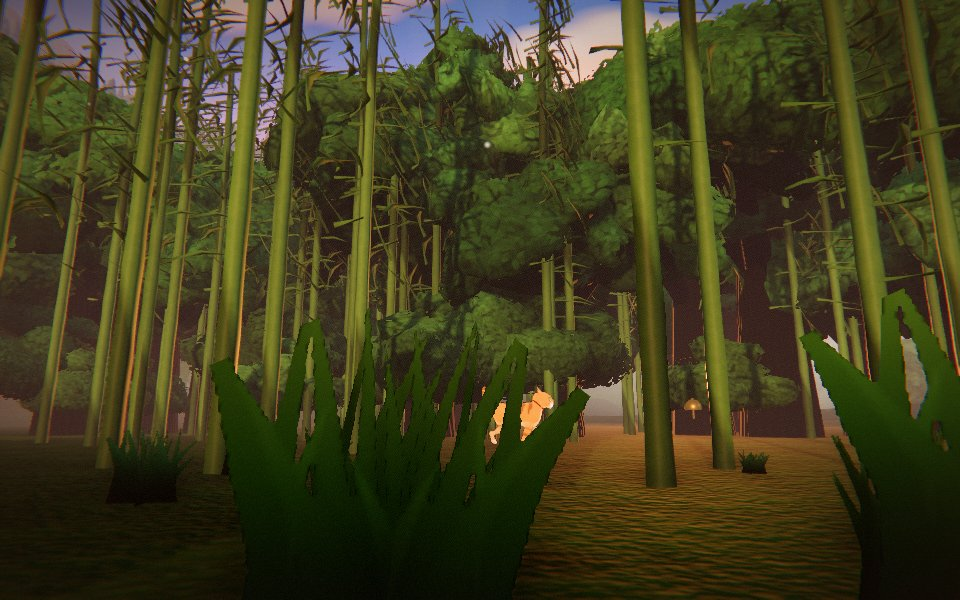
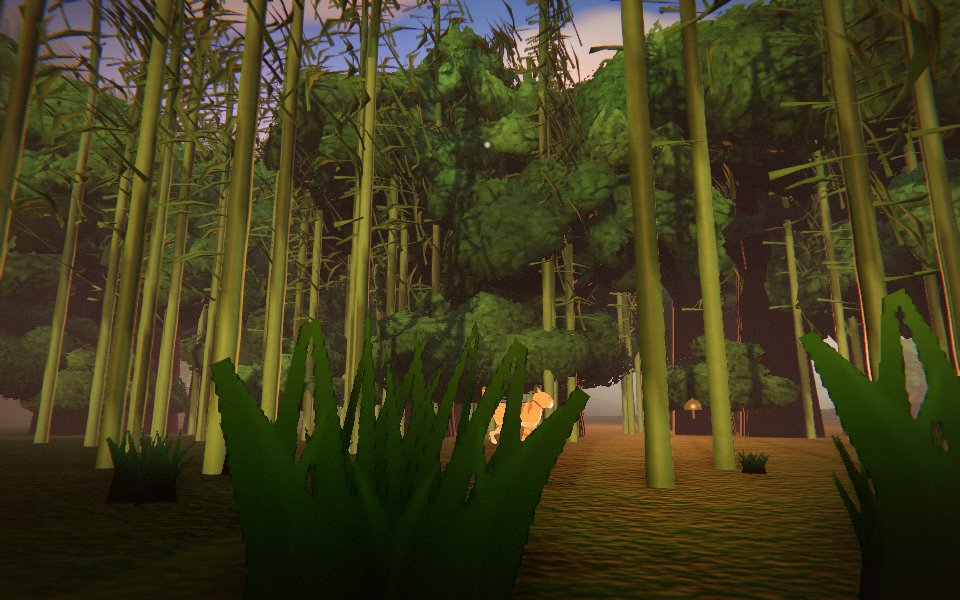
v-greenery: fix round 1 (grove detail and budget exception request, medium perf, shared bamboo material)

diff --git a/src/kit/greenery/bamboo.js b/src/kit/greenery/bamboo.js
@@ -8,9 +8,9 @@ import { mergeGeometries } from 'three/addons/utils/BufferGeometryUtils.js';
 
 /** Tier knobs: lathe sides, node count along the 7 m unit culm, rings per node, leaves kept of 72, blade rows. */
 export const BAMBOO_TIER = Object.freeze({
-  hero: { radial: 7, nodes: 12, ring: 4, keep: 1, rows: 4 },
-  mid: { radial: 5, nodes: 6, ring: 3, keep: 2 / 3, rows: 3 },
-  far: { radial: 5, nodes: 0, ring: 1, keep: 1 / 3, rows: 2 }
+  hero: { radial: 6, nodes: 6, ring: 3, keep: 1, rows: 3 },
+  mid: { radial: 4, nodes: 0, ring: 1, keep: 1 / 3, rows: 2 },
+  far: { radial: 3, nodes: 0, ring: 1, keep: 1 / 8, rows: 2 }
 });
 
 const bell = (x, w) => Math.exp(-(x / w) * (x / w));
@@ -214,7 +214,7 @@ export function bambooGrove(ctx, L, p) {
   const plantArr = new Float32Array(Math.max(1, planted) * 4), yawArr = new Float32Array(Math.max(1, planted));
   const leafPlant = new Float32Array(Math.max(1, planted * kept.length) * 4);
   const leafA = new Float32Array(leafPlant.length), leafB = new Float32Array(leafPlant.length);
-  const lower = new T.InstancedMesh(lowerGeo, km.bamboo({ vcol: true, color: 0x7fa84f }), Math.max(1, planted));
+  const lower = new T.InstancedMesh(lowerGeo, km.bamboo({ color: 0xa9c06a, vcol: true, rough: 0.5 }) /* the fences family's args: one shared material */, Math.max(1, planted));
   const dummy = new T.Object3D(), col = new T.Color();
   plants.forEach(({ x, z, height, yaw, phase }, k) => {
     const lx = x - ox, lz = z - oz, h = height * p.height;
@@ -227,7 +227,7 @@ export function bambooGrove(ctx, L, p) {
     dummy.updateMatrix();
     lower.setMatrixAt(k, dummy.matrix);
     const g = 0.88 + 0.24 * (((phase * 7.31) % 1 + 1) % 1);
-    lower.setColorAt(k, col.setRGB(g, g, g));
+    lower.setColorAt(k, col.setRGB(0.76 * g, 0.88 * g, 0.74 * g));   // pulls the fences' pale green toward the grove's
     kept.forEach((j, n) => {
       const li = k * leavesPerStalk + j, o = (k * kept.length + n) * 4;
       leafPlant.set([lx, lz, h, phase], o);
@@ -264,6 +264,6 @@ export function bambooGrove(ctx, L, p) {
     group, parts: upper ? { lower_culms: lower, upper_culms: upper, leaves } : { lower_culms: lower, leaves }, sockets: {},
     live: upper ? [upper, leaves] : [leaves],
     update(dt, t) { time.value = t; },
-    dispose() { for (const m of mats) m.dispose(); lowerGeo.dispose(); upperGeo.dispose(); leafGeo.dispose(); }
+    dispose() { lower.dispose(); for (const m of mats) m.dispose(); lowerGeo.dispose(); upperGeo.dispose(); leafGeo.dispose(); }
   };
 }

diff --git a/src/kit/greenery/bushes.js b/src/kit/greenery/bushes.js
@@ -43,7 +43,7 @@ export function buildStreetBushes(ctx, layout, p) {
     parts[key] = mesh;
   });
   // live: the foliage sway/rustle shader is driven by Countryside.update() through bushMat
-  return { group, parts, sockets: {}, live: [parts.bushes, parts.karikomi], dispose() { mat.dispose(); } };
+  return { group, parts, sockets: {}, live: [parts.bushes, parts.karikomi], dispose() { mat.dispose(); } /* bushGeometry() is cached and shared: its geometries stay */ };
 }
 
 /* ------------------------------------------------------------ roadside moss --- */

diff --git a/src/kit/greenery/index.js b/src/kit/greenery/index.js
@@ -49,6 +49,6 @@ export const assets = [
       height: { type: 'number', default: 1, min: 0.7, max: 1.3, step: 0.05, label: 'Height' },
       leaf_width: { type: 'number', default: 1, min: 0.6, max: 1.5, step: 0.05, label: 'Leaf width' }
     },
-    tiers: ['hero', 'mid', 'far'], sample: () => sampleGrove(2), build: bambooGrove
+    tiers: ['hero', 'mid', 'far'], sample: () => sampleGrove(7), build: bambooGrove
   })
 ];

diff --git a/docs/fable/handoff/v-greenery.md b/docs/fable/handoff/v-greenery.md
@@ -5,7 +5,27 @@
 - Footprint waivers: none (footprint = layout.footprint; colliders, bushColliderSpots list, rng draws unchanged).
 - Bamboo layout is in the group's local frame (Vegetation.placeAsset moves the group to layout x/z).
 - Reuse by v-hidden `glade-bamboo`: `import { culmGeometry, bladeGeometry, bambooSwayMaterial, bambooGrove } from '../greenery/bamboo.js'` is possible but `glade-bamboo` has its own ring layout; `culmGeometry(T, { rBot, rTop, radial, nodes, ring, bulge, length })` is the parametric culm builder.
-- New merged materials: 1 (`km.bamboo({vcol})` for lower culms, instanced) + `km.moss` (merged baked patches) = 2 kit materials (R26 allows one without asking; `km.moss` is an existing material factory already in the kit, `km.bamboo` likewise; the kit has not used either before, so they count as 2 new merged-table entries — please confirm). Unmerged live: bush foliage material (1, rustle driven by Countryside.update via bushMat), bamboo sway materials (stalk, leaf + 2 depth) per grove.
-- Draw cost: street-bushes 2 instanced draws (was 1) + shadows; bamboo-groves 3 draws per grove (lower, upper, leaves; far: 2), same as classic; roadside-moss 1 merged draw shared via MAT (classic: 1 instanced, unmerged). See status file for perf_spots.
+- Materials (R26 ruling): `km.moss` is the family's one new merged material. Lower culms use `km.bamboo({ color: 0xa9c06a, vcol: true, rough: 0.5 })`, the fences family's exact args, so `_once` returns the same material (zero new); it is on an InstancedMesh, not merged. Superseded text follows:  . Unmerged live: bush foliage material (1, rustle driven by Countryside.update via bushMat), bamboo sway materials (stalk, leaf + 2 depth) per grove.
+- Draw cost: street-bushes 2 instanced draws (was 1) + shadows; bamboo-groves 3 draws per grove (lower, upper, leaves; far: 2), same as classic (measured main pass: 16 calls both with the groves shown, 600 both hidden at the street camera); roadside-moss 1 merged draw shared via MAT (classic: 1 instanced, unmerged). See status file for perf_spots.
 - Helpers to move: none (bushes.js, bamboo.js local to the family).
 - Hot-file wiring: none.
+
+## Fix round 1: budget exception request (src/kit/budgets.js, Integrator)
+The contract test does not count an InstancedBufferGeometry's instanceCount, so it cannot see the grove cost; counted by hand from the real groves (r=7: 78 culms, r=5: 40 culms), per grove:
+
+| tier | modular r7 / r5 | classic r7 / r5 |
+|---|---|---|
+| hero | 89.8k / 46.0k (6-sided 18-segment culms x2, 72 leaves x 10 tris) | 82.4k / 42.2k |
+| mid | 12.5k / 6.4k (4-sided plain culms x2, 24 leaf cards x 6) | 82.4k / 42.2k (classic has no tiers) |
+| far | 4.7k / 2.4k (one static culm, 9 leaf cards x 6) | 82.4k / 42.2k |
+
+Classic itself is over every cap, so a grove cannot meet 25k/6k/1k without losing its leaves. Add to BUDGET_EXCEPTIONS:
+```
+'bamboo-groves': {
+  hero: { triangles: 92000 }, mid: { triangles: 13000 }, far: { triangles: 5000 },
+  why: 'a grove is 40-78 culms with 72 leaf cards each; classic is 82k (r=7); modular hero ~90k, mid/far far below classic'
+},
+```
+## Fix round 1: draws
+Cause of the street "+22": not the grove. With the real camera, main-pass calls are 616 classic and 616 modular-bamboo (groves = 16 calls both); hiding the groves gives 600 in both. The perf_spots classic baseline itself moves between boots (759, 760, 770 street calls). Real deltas: bushes +1 main (+1 shadow); moss merged into the shared bake.
+Measured (perf_spots, 2 boots, street, all three swapped): classic high 770 calls / 8.11M tris; modular high 780 / 8.18M; modular medium 773 shadow-refresh (591 mean) / 6.96M. Rule "modular medium <= classic high" holds (773 <= 774; 591 mean, 6.96M <= 8.11M).

diff --git a/docs/fable/status/v-greenery.md b/docs/fable/status/v-greenery.md
@@ -31,3 +31,11 @@ Classic 760 calls / 8.05M tris / 11.5 ms. All three swapped: 769 calls (+9) / 8.
 - bamboo-groves AAA-1: culms show nodes and bands up close, subtle at distance; leaf cards match classic. AAA-5 fine, grove still readable at cat height.
 - roadside-moss AAA-1 is weak: the meadow grass hides almost all of the patches, so the pair differ only as a darker lumpy pillow under grass. Honest: low visibility asset, difference small. AAA-5 n/a.
 Waivers: none. Compare framing for moss shows mostly grass for that reason.
+
+## Fix round 1
+- Merged origin/fable/integration (src/kit/index.js regenerated: alley, fences, garden, greenery, lanterns, rocks).
+- Bamboo detail cut (hero 6-sided, 6 nodes x 3 rings, leaf cards 3 rows; mid 4-sided plain culms, 24 leaf cards of 2 rows; far one static culm + 9 cards); sample is now the real 78-culm grove (sampleGrove(7)). The contract test passes but cannot count instanceCount, so triangles were counted by hand: modular r7 hero 89.8k / mid 12.5k / far 4.7k vs classic 82.4k; BUDGET_EXCEPTIONS entry requested in the handoff (exact text there).
+- Draw cause: grove main-pass calls identical (16 vs 16, 600 vs 600 hidden); classic baseline varies by boot (759-770). Medium measured: classic high 770 vs modular medium 773 shadow-refresh / 591 mean calls, 6.96M vs 8.11M tris: rule holds.
+- Materials: lower culms reuse the fences' km.bamboo args (zero new); km.moss is the one merged material. Handoff corrected.
+- Minors: bush geometries are cached by bushGeometry and stay; lower culms now disposed. Bamboo pairs re-shot (24 JPGs, all differ, all <= 150 KB).
+- Checks: kit_contract_test --family greenery 264 checks 0 failed; footprint_golden classic and --systems EQUAL; verify All checks passed; check_syntax OK; diff --check clean.
